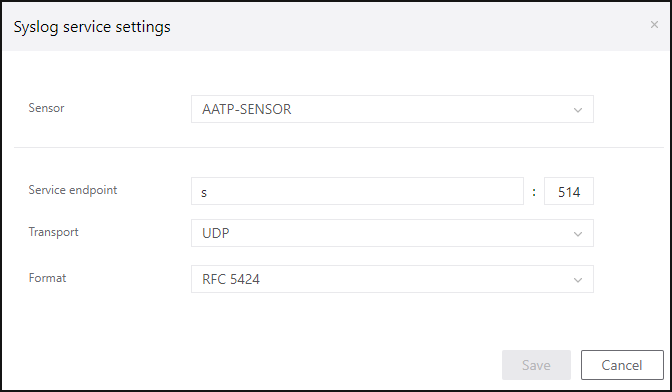
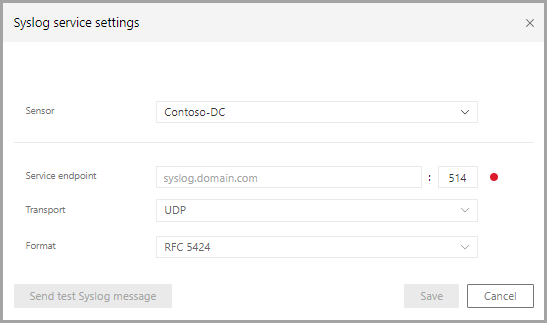
2.86 Release candidate

diff --git a/ATPDocs/cef-format-sa.md b/ATPDocs/cef-format-sa.md
@@ -84,6 +84,8 @@ The following fields and their values are forwarded to your SIEM:
 |[Suspected Golden Ticket usage (time anomaly)](atp-domain-dominance-alerts.md#suspected-golden-ticket-usage-time-anomaly-external-id-2022)|Kerberos Golden Ticket - time anomaly|2022|High|Privilege Escalation,<br> Lateral movement,<br>Persistence|
 |[Suspected identity theft (pass-the-hash)](atp-lateral-movement-alerts.md#suspected-identity-theft-pass-the-hash-external-id-2017)|Identity theft using Pass-the-Hash attack|2017|High|Lateral movement|
 |[Suspected identity theft (pass-the-ticket)](atp-lateral-movement-alerts.md#suspected-identity-theft-pass-the-ticket-external-id-2018)|Identity theft using Pass-the-Ticket attack|2018|High or Medium|Lateral movement|
+|[Suspected NTLM authentication tampering - preview](atp-lateral-movement-alerts.md#suspected-ntlm-authentication-tampering-external-id-2039---preview)|NA|2039|Medium|Lateral movement|
+|[Suspected NTLM relay attack - preview](atp-lateral-movement-alerts.md#suspected-ntlm-relay-attack-exchange-account-external-id-2037---preview)|NA|2037|Medium or Low if observed using signed NTLM v2 protocol|Privilege escalation, <br> Lateral movement|
 |[Suspected over-pass-the-hash attack (encryption downgrade)](atp-lateral-movement-alerts.md#suspected-overpass-the-hash-attack-encryption-downgrade-external-id-2008)|Encryption downgrade activity (potential overpass-the-hash attack)|2008|Medium|Lateral movement|
 |[Suspected overpass-the-hash attack (Kerberos)](atp-lateral-movement-alerts.md#suspected-overpass-the-hash-attack-kerberos-external-id-2002)|Unusual Kerberos protocol implementation (potential overpass-the-hash attack)|2002|Medium|Lateral movement|
 |[Suspected skeleton key attack (encryption downgrade)](atp-domain-dominance-alerts.md#suspected-skeleton-key-attack-encryption-downgrade-external-id-2010)|Encryption downgrade activity (potential skeleton key attack)|2010|Medium|Lateral movement,<br> Persistence|
@@ -141,6 +143,9 @@ Priorities:
 ### Suspected brute force attack (Kerberos, NTLM)
 10-29-2018	11:20:47	Auth.Warning	192.168.0.202	1 2018-10-29T09:20:44.478827+00:00 DC3 CEF 3908 BruteForceSecurityAlert ï»¿0|Microsoft|Azure ATP|2.52.5704.46184|BruteForceSecurityAlert|Suspicious authentication failures|5|start=2018-10-29T09:19:44.9512286Z app=Kerberos shost=CLIENT1 msg=Suspicious authentication failures indicating a potential brute-force attack were detected from CLIENT1. externalId=2023 cs1Label=url cs1=https\://contoso-corp.atp.azure.com/securityAlert/85042c8e-27fa-49b3-8667-dabc1aa31580 cs2Label=trigger cs2=new
 
+### Suspected DCSync attack (replication of directory services)
+02-21-2018	16:20:06	Auth.Warning	192.168.0.220	1 2018-02-21T14:19:54.254930+00:00 CENTER CEF 6076 MaliciousServiceCreationSecurity ï»¿0|Microsoft|Azure ATP|2.22.4228.22540|MaliciousServiceCreationSecurityAlert|Suspicious service creation|5|start=2018-02-21T14:19:41.7897808Z app=ServiceInstalledEvent shost=CLIENT1 msg=user1 created MaliciousService in order to execute potentially malicious commands on CLIENT1. externalId=2026 cs1Label=url cs1=https\://contoso-corp.atp.azure.com/securityAlert/179229b6-b791-4895-b5aa-fdf3747a325c cs2Label=trigger cs2=update
+
 ### Suspected Golden Ticket usage (encryption downgrade)
 10-29-2018	11:25:07	Auth.Warning	192.168.0.202	1 2018-10-29T09:25:01.007701+00:00 DC3 CEF 3908 GoldenTicketEncryptionDowngradeS ï»¿0|Microsoft|Azure ATP|2.52.5704.46184|GoldenTicketEncryptionDowngradeSecurityAlert|Encryption downgrade activity (potential golden ticket attack)|5|start=2018-10-29T09:37:49.0849130Z app=Kerberos msg=W10-000007-Lap used a weaker encryption method (RC4),Â in the Kerberos service request (TGS_REQ),Â from W10-000007-Lap, to access host/domain1.test.local. externalId=2009 cs1Label=url cs1=https\://contoso-corp.atp.azure.com/securityAlert/f01f8403-88b2-437e-b4ad-d72485fe05ac cs2Label=trigger cs2=new
 
@@ -162,14 +167,14 @@ Priorities:
 ### Suspected identity theft (Pass-the-Ticket) 
 02-21-2018	17:04:47	Auth.Error	192.168.0.220	1 2018-02-21T15:04:33.537583+00:00 CENTER CEF 6076 PassTheTicketSecurityAlert ï»¿0|Microsoft|Azure ATP|2.22.4228.22540|PassTheTicketSecurityAlert|Identity theft using Pass-the-Ticket attack|10|start=2018-02-21T15:02:22.2577465Z app=Kerberos suser=Eugene Jenkins msg=Eugene Jenkins (Software Engineer)'s Kerberos tickets were stolen from Admin-PC to Victim-PC and used to access krbtgt/DOMAIN1.TEST.LOCAL. externalId=2018 cs1Label=url cs1=https\://contoso-corp.atp.azure.com/securityAlert/511f1487-2915-477d-be2e-04cfba702ccd cs2Label=trigger cs2=new
 
+### Suspected NTLM authentication tampering (Preview)
+07-17-2019  18:18:44    Auth.Warning   192.168.0.77       1 2019-07-09T15:18:30.967118+00:00 CENTER CEF 7144 AbnormalNtlmSigningSecurityAlert ï»¿0|Microsoft|Azure ATP|2.86.0.0|AbnormalNtlmSigningSecurityAlert|[PREVIEW] Suspected NTLM authentication tampering|5|start=2019-07-09T15:14:57.5280720Z app=Ntlm shost=CLIENT1 msg=2 accounts on CLIENT1 is suspiciously trying to authenticate against 2 computers over NTLM. externalId=2039 cs1Label=url cs1=https\://contoso-corp.atp.azure.com:13000/securityAlert/d4ce6252-2c0f-47f6-a534-47ee8ad983be cs2Label=trigger cs2=new
+
 ### Suspected Over-Pass-the-Hash attack (encryption downgrade) 
 02-21-2018	16:21:07	Auth.Warning	192.168.0.220	1 2018-02-21T14:20:54.145833+00:00 CENTER CEF 6076 EncryptionDowngradeSecurityAlert ï»¿0|Microsoft|Azure ATP|2.22.4228.22540|EncryptionDowngradeSecurityAlert|Encryption downgrade activity|5|start=2018-02-21T14:19:41.8737870Z app=Kerberos msg= The encryption method of the Encrypted_Timestamp field of AS_REQ message from CLIENT1 has been downgraded based on previously learned behavior. This may be a result of a credential theft using Overpass-the-Hash from CLIENT1. externalId=2008 cs1Label=url cs1=https\://contoso-corp.atp.azure.com/securityAlert/6354b9ed-6a39-4f5b-b10e-f51bbee879d2 cs2Label=trigger cs2=update
 
 ### Suspected Skeleton Key attack (encryption downgrade) 
 02-21-2018	16:21:07	Auth.Warning	192.168.0.220	1 2018-02-21T14:20:54.145833+00:00 CENTER CEF 6076 EncryptionDowngradeSecurityAlert ï»¿0|Microsoft|Azure ATP|2.22.4228.22540|EncryptionDowngradeSecurityAlert|Encryption downgrade activity|5|start=2018-02-21T14:19:41.8737870Z app=Kerberos msg=The encryption method of the ETYPE_INFO2 field of KRB_ERR message from CLIENT1 has been downgraded based on previously learned behavior. This may be a result of a Skeleton Key on DC1. externalId=2010 cs1Label=url cs1=https\://contoso-corp.atp.azure.com/securityAlert/6354b9ed-6a39-4f5b-b10e-f51bbee879d2 cs2Label=trigger cs2=new
-
-### Suspected DCSync attack (replication of directory services)
-02-21-2018	16:20:06	Auth.Warning	192.168.0.220	1 2018-02-21T14:19:54.254930+00:00 CENTER CEF 6076 MaliciousServiceCreationSecurity ï»¿0|Microsoft|Azure ATP|2.22.4228.22540|MaliciousServiceCreationSecurityAlert|Suspicious service creation|5|start=2018-02-21T14:19:41.7897808Z app=ServiceInstalledEvent shost=CLIENT1 msg=user1 created MaliciousService in order to execute potentially malicious commands on CLIENT1. externalId=2026 cs1Label=url cs1=https\://contoso-corp.atp.azure.com/securityAlert/179229b6-b791-4895-b5aa-fdf3747a325c cs2Label=trigger cs2=update
 
 ### Suspicious authentication failures
 02-21-2018	16:19:20	Auth.Warning	192.168.0.220	1 2018-02-21T14:19:15.397995+00:00 CENTER CEF 6076 BruteForceSecurityAlert ï»¿0|Microsoft|Azure ATP|2.22.4228.22540|BruteForceSecurityAlert|Suspicious authentication failures|5|start=2018-02-21T14:19:03.3831122Z app=Kerberos shost=CLIENT1 msg=Suspicious authentication failures indicating a potential brute-force attack were detected from CLIENT1. externalId=2023 cs1Label=url cs1=https\://contoso-corp.atp.azure.com/securityAlert/fea88fc7-4110-454d-816d-349032474fd6 cs2Label=trigger cs2=new

diff --git a/ATPDocs/install-atp-step5.md b/ATPDocs/install-atp-step5.md
@@ -5,7 +5,7 @@ title: Configure Azure ATP sensor settings quickstart | Microsoft Docs
 description: Step five of installing Azure ATP helps you configure settings for your Azure ATP standalone sensor.
 author: mlottner
 ms.author: mlottner
-ms.date: 03/03/2018
+ms.date: 07/17/2019
 ms.topic: quickstart
 ms.collection: M365-security-compliance
 ms.service: azure-advanced-threat-protection
@@ -38,12 +38,12 @@ After the Azure ATP sensor is installed, do the following to configure Azure ATP
 
 1. Click **Launch** to open your browser and sign in to the Azure ATP portal.
 
-2.  In the Azure ATP portal, go to **Configuration** and, under the **System** section, select **Sensors**.
+1.  In the Azure ATP portal, go to **Configuration** and, under the **System** section, select **Sensors**.
    
     ![Configure sensor settings image](media/atp-sensor-config.png)
 
 
-3. Click on the sensor you want to configure and enter the following information:
+1. Click on the sensor you want to configure and enter the following information:
 
    ![Configure sensor settings image](media/atp-sensor-config-2.png)
 
@@ -59,17 +59,8 @@ After the Azure ATP sensor is installed, do the following to configure Azure ATP
     - For Azure ATP sensors, all network adapters that are used for communication with other computers in your organization.
     - For Azure ATP standalone sensor on a dedicated server, select the network adapters that are configured as the destination mirror port. These network adapters receive the mirrored domain controller traffic.
 
-  - **Domain synchronizer candidate**: 
-    
-    - The domain synchronizer is responsible for synchronization between Azure ATP and your Active Directory domain. Depending on the size of the domain, the initial synchronization may take time and is resource-intensive. Azure ATP recommends setting at least one domain controller as the domain synchronizer candidate per domain. Failure to select at least one domain controller as the domain synchronizer candidate means Azure ATP will only passively scan your network and may not be able to collect all Active Directory changes and entity details. At least one designated **domain synchronizer candidate** per domain ensures Azure ATP is actively scanning your network at all times and able to collect all Active Directory changes and entity values.
-  
-    - By default, Azure ATP sensors aren't domain synchronizer candidates, while Azure ATP standalone sensors are. To manually set an Azure ATP sensor as a domain synchronizer candidate, switch the **Domain synchronizer candidate** toggle option to **ON** in the configuration screen.
-        
-    - It's recommended that you disable any remote site Azure ATP sensor(s) from being domain synchronizer candidates.
-   
-    - Don't set read-only domain controllers as domain synchronizer candidates. For more information about Azure ATP domain synchronization, see [Azure ATP architecture](atp-architecture.md#azure-atp-sensor-features).
-  
-3. Click **Save**.
+ 
+1. Click **Save**.
 
 
 ## Validate installations
@@ -77,23 +68,23 @@ To validate that the Azure ATP sensor has been successfully deployed, check the 
 
 1. Check that the service named **Azure Advanced Threat Protection sensor** is running. After you save the Azure ATP sensor settings, it might take a few seconds for the service to start.
 
-2. If the service doesn't start, review the “Microsoft.Tri.sensor-Errors.log” file located in the following default folder, “%programfiles%\Azure Advanced Threat Protection sensor\Version X\Logs”.
+1. If the service doesn't start, review the “Microsoft.Tri.sensor-Errors.log” file located in the following default folder, “%programfiles%\Azure Advanced Threat Protection sensor\Version X\Logs”.
  
    >[!NOTE]
    > The version of Azure ATP updates frequently, to check the latest version, in the Azure ATP portal, go to **Configuration** and then **About**. 
 
-3. Go to your Azure ATP instance URL. In the Azure ATP portal, search for something in the search bar, such as a user or group on your domain.
+1. Go to your Azure ATP instance URL. In the Azure ATP portal, search for something in the search bar, such as a user or group on your domain.
 
-4. Verify ATP connectivity on any domain device using the following steps:
+1. Verify ATP connectivity on any domain device using the following steps:
     1. Open a command prompt
-    2. Type ```nslookup```
-    3. Type **server** then the FQDN or IP address of the domain controller where the ATP sensor is installed. For example,
+    1. Type ```nslookup```
+    1. Type **server** then the FQDN or IP address of the domain controller where the ATP sensor is installed. For example,
     ```server contosodc.contoso.azure```
         - Make sure to replace contosodc.contoso.azure and contoso.azure with the FQDN of your Azure ATP sensor and domain name respectively.
-    4. Type ```ls -d contoso.azure```
-    5. Repeat steps 3 and 4 for each sensor you wish to test.  
-    6. From the Azure ATP console, open the entity profile for the computer you ran the connectivity test from. 
-    7. Check the related logical activity and confirm connectivity. 
+    1. Type ```ls -d contoso.azure```
+    1. Repeat steps 3 and 4 for each sensor you wish to test.  
+    1. From the Azure ATP console, open the entity profile for the computer you ran the connectivity test from. 
+    1. Check the related logical activity and confirm connectivity. 
 
     > [!NOTE] 
     >If the domain controller you wish to test is your first deployed sensor, wait at least 15 minutes to allow the database backend to finish initial deployment of the necessary microservices before you attempt to verify the related logical activity for that domain controller.

diff --git a/ATPDocs/suspicious-activity-guide.md b/ATPDocs/suspicious-activity-guide.md
@@ -7,7 +7,7 @@ keywords:
 author: mlottner
 ms.author: mlottner
 manager: rkarlin
-ms.date: 05/27/2019
+ms.date: 07/17/2019
 ms.topic: conceptual
 ms.collection: M365-security-compliance
 ms.service: azure-advanced-threat-protection
@@ -28,7 +28,7 @@ ms.suite: ems
 
 # Azure ATP Security Alerts
 
-Azure ATP security alerts explain the suspicious activities detected by Azure ATP sensors on your network, and the actors and computers involved in each threat.   Alert evidence lists contain direct links to the involved users and computers, to help make your investigations easy and direct.
+Azure ATP security alerts explain the suspicious activities detected by Azure ATP sensors on your network, and the actors and computers involved in each threat. Alert evidence lists contain direct links to the involved users and computers, to help make your investigations easy and direct.
 
 Azure ATP security alerts are divided into the following categories or phases, like the phases seen in a typical cyber-attack kill chain. Learn more about each phase, the alerts designed to detect each attack, and how to use the alerts to help protect your network using the following links:
 
@@ -69,11 +69,12 @@ In version 2.56, all existing Azure ATP security alerts were renamed with easier
 |[Suspected Golden Ticket usage (time anomaly)](atp-domain-dominance-alerts.md#suspected-golden-ticket-usage-time-anomaly-external-id-2022)|Kerberos Golden Ticket - time anomaly|2022|High|Privilege Escalation,<br> Lateral movement,<br>Persistence|
 |[Suspected identity theft (pass-the-hash)](atp-lateral-movement-alerts.md#suspected-identity-theft-pass-the-hash-external-id-2017)|Identity theft using Pass-the-Hash attack|2017|High|Lateral movement|
 |[Suspected identity theft (pass-the-ticket)](atp-lateral-movement-alerts.md#suspected-identity-theft-pass-the-ticket-external-id-2018)|Identity theft using Pass-the-Ticket attack|2018|High or Medium|Lateral movement|
+|[Suspected NTLM authentication tampering - preview](atp-lateral-movement-alerts.md#suspected-ntlm-authentication-tampering-external-id-2039---preview)|NA|2039|Medium|Lateral movement|
+|[Suspected NTLM relay attack - preview](atp-lateral-movement-alerts.md#suspected-ntlm-relay-attack-exchange-account-external-id-2037---preview)|NA|2037|Medium or Low if observed using signed NTLM v2 protocol|Privilege escalation, <br> Lateral movement|
 |[Suspected over-pass-the-hash attack (encryption downgrade)](atp-lateral-movement-alerts.md#suspected-overpass-the-hash-attack-encryption-downgrade-external-id-2008)|Encryption downgrade activity (potential overpass-the-hash attack)|2008|Medium|Lateral movement|
 |[Suspected overpass-the-hash attack (Kerberos)](atp-lateral-movement-alerts.md#suspected-overpass-the-hash-attack-kerberos-external-id-2002)|Unusual Kerberos protocol implementation (potential overpass-the-hash attack)|2002|Medium|Lateral movement|
 |[Suspected skeleton key attack (encryption downgrade)](atp-domain-dominance-alerts.md#suspected-skeleton-key-attack-encryption-downgrade-external-id-2010)|Encryption downgrade activity (potential skeleton key attack)|2010|Medium|Lateral movement,<br> Persistence|
 |[Suspected use of Metasploit hacking framework](atp-compromised-credentials-alerts.md#suspected-use-of-metasploit-hacking-framework-external-id-2034)|Unusual protocol implementation (potential use of Metasploit hacking tools)|2034|Medium|Lateral movement|
-|[Suspected NTLM relay attack (Exchange account) - preview](atp-lateral-movement-alerts.md#suspected-ntlm-relay-attack-exchange-account-external-id-2037---preview)|NA|2037|Medium or Low if observed using signed NTLM v2 protocol|Privilege escalation, <br> Lateral movement|
 |[Suspected WannaCry ransomware attack](atp-compromised-credentials-alerts.md#suspected-wannacry-ransomware-attack-external-id-2035)|Unusual protocol implementation (potential WannaCry ransomware attack)|2035|Medium|Lateral movement|
 |[Suspicious communication over DNS](atp-exfiltration-alerts.md#suspicious-communication-over-dns-external-id-2031)|Suspicious communication over DNS|2031|Medium|Exfiltration|
 |[Suspicious additions to sensitive groups](atp-domain-dominance-alerts.md#suspicious-additions-to-sensitive-groups-external-id-2024)|Suspicious additions to sensitive groups|2024|Medium|Credential access,<br>Persistence|

diff --git a/ATPDocs/setting-syslog.md b/ATPDocs/setting-syslog.md
@@ -7,7 +7,7 @@ keywords:
 author: mlottner
 ms.author: mlottner
 manager: rkarlin
-ms.date: 12/02/2018
+ms.date: 07/17/2019
 ms.topic: conceptual
 ms.collection: M365-security-compliance
 ms.service: azure-advanced-threat-protection
@@ -29,7 +29,14 @@ ms.suite: ems
 
 # Integrate with Syslog
 
-Azure ATP can notify you when it detects suspicious activities and issues security alerts as well as health alerts by sending the notification to your Syslog server. If you enable Syslog notifications, you can set the following:
+Azure ATP can notify you when it detects suspicious activities and issue security alerts as well as health alerts by sending the notification to your Syslog server. If you enable Syslog notifications, you can set the following:
+
+   |Field|Description|
+   |---------|---------------|
+   |sensor|Select a designated sensor to be responsible for aggregating all the Syslog events and forwarding them to your SIEM server.|
+   |Service endpoint|FQDN of the Syslog server and optionally change the port number (default 514)|
+   |Transport|Can be UDP, TCP, or TLS (Secured Syslog)|
+   |Format|This is the format that Azure ATP uses to send events to the SIEM server - either RFC 5424 or RFC 3164.|
 
 1. Before configuring Syslog notifications, work with your SIEM admin to find out the following information:
 
@@ -41,26 +48,24 @@ Azure ATP can notify you when it detects suspicious activities and issues securi
 
    -   Format in which to send the data RFC 3164 or 5424
 
-2. Enter the instance URL.
+1. Open the Azure ATP portal. 
+2. Click **Settings**.
+3. From the **Notifications and Reports** sub menu, select **Notifications**. 
+1. From the **Syslog Service** option, click **Configure**.
+1. Select the **Sensor**. 
+1. Enter the **Service endpoint** URL.
+1. Select the **Transport** protocol (TCP or UDP). 
+1. Select the format (RFC 3164 or RFC 5424). 
+1. Select **Send text Syslog message** and then verify the message is received in your Syslog infrastructure solution. 
+1. Click **Save**. 
 
-3. Enter your Azure Active Directory user name and password and click **Log in**.
+To review or modify your Syslog settings.  
 
-4. Select the settings option on the toolbar and select **Configuration**.
-
-   ![Azure ATP configuration settings icon](media/ATP-config-menu.png)
-
-5. Click **Notifications**, and then, under **Syslog notifications** click **Configure** and enter the following information:
-
-   |Field|Description|
-   |---------|---------------|
-   |sensor|Select a designated sensor to be responsible for aggregating all the Syslog events and forwarding them to your SIEM server.|
-   |Service endpoint|FQDN of the Syslog server and optionally change the port number (default 514)|
-   |Transport|Can be UDP, TCP, or TLS (Secured Syslog)|
-   |Format|This is the format that Azure ATP uses to send events to the SIEM server - either RFC 5424 or RFC 3164.|
+3. Click **Notifications**, and then, under **Syslog notifications** click **Configure** and enter the following information:
 
    ![Azure ATP Syslog server settings image](media/atp-syslog.png)
 
-6. You can select which events to send to your Syslog server. Under **Syslog notifications**, specify which notifications should be sent to your Syslog server - new security alerts, updated security alerts, and new health issues.
+4. You can select which events to send to your Syslog server. Under **Syslog notifications**, specify which notifications should be sent to your Syslog server - new security alerts, updated security alerts, and new health issues.
 
 > [!NOTE]
 > If you plan to create automation or scripts for Azure ATP SIEM logs, we recommend using the **externalId** field to identify the alert type instead of using the alert name for this purpose. Alert names may occasionally be modified, while the **externalId** of each alert is permanent. For more information, see [Azure ATP SIEM log reference](cef-format-sa.md). 

diff --git a/ATPDocs/atp-lateral-movement-alerts.md b/ATPDocs/atp-lateral-movement-alerts.md
@@ -7,7 +7,7 @@ keywords:
 author: mlottner
 ms.author: mlottner
 manager: rkarlin
-ms.date: 03/18/2019
+ms.date: 07/17/2019
 ms.topic: tutorial
 ms.collection: M365-security-compliance
 ms.service: azure-advanced-threat-protection
@@ -44,6 +44,7 @@ The following security alerts help you identify and remediate **Lateral Movement
 > * Remote code execution over DNS (external ID 2036)
 > * Suspected identity theft (pass-the-hash) (external ID 2017)
 > * Suspected identity theft (pass-the-ticket) (external ID 2018)
+> * Suspected NTLM authentication tampering (external ID 2039) - preview
 > * Suspected NTLM relay attack (Exchange account)  (external ID 2037) - preview
 > * Suspected overpass-the-hash attack (encryption downgrade) (external ID 2008)
 > * Suspected overpass-the-hash attack (Kerberos) (external ID 2002)
@@ -153,6 +154,34 @@ There are custom applications that forward tickets on behalf of users. These app
 3. Find the tool that performed the attack and remove it.
 4. Look for users logged on around the same time as the activity, as they may also be compromised. Reset their passwords and enable MFA.
 5. If you have Windows Defender ATP installed – use **klist.exe purge** to delete all the tickets of the specified logon session and prevent future usage of the tickets.
+
+## Suspected NTLM authentication tampering (external ID 2039) - preview
+
+In June 2019, Microsoft published [Security Vulnerability CVE-2019-1040](https://portal.msrc.microsoft.com/security-guidance/advisory/CVE-2019-1040), announcing discovery of a new tampering vulnerability in Microsoft Windows, when a “man-in-the-middle” attack is able to successfully bypass NTLM MIC (Message Integrity Check) protection.
+
+Malicious actors that successfully exploit this vulnerability have the ability to downgrade NTLM security features, and may successfully create authenticated sessions on behalf of other accounts. Unpatched Windows Servers are at risk from this vulnerability.
+ 
+In this detection, an Azure ATP security alert is triggered when NTLM authentication requests suspected of exploiting security vulnerability identified in [CVE-2019-1040](https://portal.msrc.microsoft.com/security-guidance/advisory/CVE-2019-1040) are made against a domain controller in the network.
+
+**TP, B-TP, or FP?**
+
+1.	Are the involved computers, including domain controllers, up-to-date and patched against [CVE-2019-1040](https://portal.msrc.microsoft.com/security-guidance/advisory/CVE-2019-1040)?
+o	If the computers are up-to-date and patched, we expect the authentication to fail. If the authentication ailed, **Close** the security alert as a failed attempt.
+ 
+**Understand the scope of the breach**
+1.	Investigate the [source computers](investigate-a-computer.md).
+2.	Investigate the [source account](investigate-a-user.md).
+
+**Suggested remediation and steps for prevention**
+
+**Remediation**
+1.	Contain the source computers
+2.	Find the tool that performed the attack and remove it.
+3.	Look for users logged on around the same time as the activity occurred, as they may also be compromised. Reset their passwords and enable MFA.
+4.	Force the use of sealed NTLMv2 in the domain, using the **Network security: LAN Manager authentication level** group policy. For more information, see [LAN Manager authentication level instructions](https://docs.microsoft.com/windows/security/threat-protection/security-policy-settings/network-security-lan-manager-authentication-level) for setting the group policy for domain controllers.
+ 
+*Prevention*
+•	Make sure all devices in the environment are up-to-date, and patched against [CVE-2019-1040](https://portal.msrc.microsoft.com/security-guidance/advisory/CVE-2019-1040).
 
 ## Suspected NTLM relay attack (Exchange account) (external ID 2037) - preview
 

diff --git a/ATPDocs/atp-whats-new.md b/ATPDocs/atp-whats-new.md
@@ -28,6 +28,23 @@ ms.suite: ems
 
 # What's new in Azure ATP
 
+## Azure ATP release 2.86 
+
+Released July 14, 2019
+
+- **New security alert: Suspected NTLM authentication tampering (external ID 2039) – (preview)**<br>
+Azure ATP’s new [Suspected NTLM authentication tampering](atp-lateral-movement-alerts.md#suspected-ntlm-authentication-tampering-external-id-2039---preview) security alert is now in public preview. <br> In this detection, an Azure ATP security alert is triggered when use of "man-in-the-middle" attack is suspected of successfully bypassing NTLM Message Integrity Check (MIC), a security vulnerability detailed in Microsoft [CVE-2019-040](https://portal.msrc.microsoft.com/en-US/security-guidance/advisory/CVE-2019-1040). These types of attacks attempt to downgrade NTLM security features and successfully authenticate, with the ultimate goal of making successful lateral movements. 
+
+- **Feature enhancement: TcP FingerPrint**<br> Until now, Azure ATP provided entity device operating system (OS) information based on the available attribute in Active Directory. Previously, if OS information was unavailable in Active Directory, it was also unavailable on device pages. Starting from this version, Azure ATP now also provides this information for devices for which Active Directory(AD) doesn't have the information, or that are not registered in AD, by using TCP fingerprints. 
+ 
+    Azure ATP now evaluates and determines the device OS based on network traffic. For devices that don't have an OS attribute in AD, or are not registered, if the OS was evaluated by TCP fingerprint, this information is now provided on the device page under the device name. This additional data helps identify unregistered and non-Windows devices, while aiding in your investigation process. For learn more about investigating using Azure ATP, see [investigate a computer](investigate-a-computer.md).  
+
+- **New feature: Authenticated proxy -preview**<br> Azure ATP now supports authenticated proxy. Specify the proxy URL using the sensor command line and  specify Username/Password to use proxies that require authentication. For more information about authenticated proxy, see [Configure the proxy](https://docs.microsoft.com/azure-advanced-threat-protection/configure-proxy#configure-the-proxy).
+
+- **Feature enhancement: Automated domain synchronizer process**<br> The process of designating and tagging domain controllers as domain synchronizer candidates during setup and ongoing configuration is now fully automated. The toggle option to select a domain controller as a domain synchronizer candidate is removed. 
+
+- This version also includes improvements and bug fixes for internal sensor infrastructure.
+
 ## Azure ATP release 2.85
 
 Released July 7, 2019

diff --git a/ATPDocs/atp-architecture.md b/ATPDocs/atp-architecture.md
@@ -7,7 +7,7 @@ keywords:
 author: mlottner
 ms.author: mlottner
 manager: rkarlin
-ms.date: 1/27/2019
+ms.date: 07/17/2019
 ms.topic: article
 ms.collection: M365-security-compliance
 ms.service: azure-advanced-threat-protection
@@ -75,16 +75,12 @@ The Azure ATP sensor has the following core functionality:
 
 Azure ATP sensor reads events locally, without the need to purchase and maintain additional hardware or configurations. The Azure ATP sensor also supports Event Tracing for Windows (ETW) which provides the log information for multiple detections. ETW-based detections include Suspected DCShadow attacks attempted using domain controller replication requests and domain controller promotion.
 
-### Domain synchronizer candidate
+### Domain synchronizer process
 
-The domain synchronizer candidate is responsible for synchronizing all entities from a specific Active Directory domain proactively (similar to the mechanism used by the domain controllers themselves for replication). One sensor is chosen randomly, from the list of candidates, to serve as the domain synchronizer. 
+The domain synchronizer process is responsible for synchronizing all entities from a specific Active Directory domain proactively (similar to the mechanism used by the domain controllers themselves for replication). One sensor is automatically chosen at random from all of your eligible sensors to serve as the domain synchronizer. 
 
-If the synchronizer is offline for more than 30 minutes, another candidate is chosen instead. If there's no domain synchronizer available for a specific domain, Azure ATP proactively synchronizes entities and their changes, however Azure ATP retrieves new entities as they're detected in the monitored traffic.
+If the domain synchronizer is offline for more than 30 minutes, another sensor is automatically chosen instead. 
     
-If there's no domain synchronizer available, and you search for an entity that didn't have any traffic related to it, no search results are displayed.
-
-By default, Azure ATP sensors aren't synchronizer candidates. To manually set an Azure ATP sensor as a domain synchronizer candidate, follow the steps in the [Azure ATP installation workflow](install-atp-step5.md).
-
 ### Resource limitations
 
 The Azure ATP sensor includes a monitoring component that evaluates the available compute and memory capacity on the domain controller on which it's running. The monitoring process runs every 10 seconds and dynamically updates the CPU and memory utilization quota on the Azure ATP sensor process. The monitoring process makes sure the domain controller always has at least 15% of free compute and memory resources available.

diff --git a/ATPDocs/atp-nnr-policy.md b/ATPDocs/atp-nnr-policy.md
@@ -6,7 +6,7 @@ keywords:
 author: mlottner
 ms.author: mlottner
 manager: rkarlin
-ms.date: 06/17/2019
+ms.date: 07/17/2019
 ms.topic: conceptual
 ms.collection: M365-security-compliance
 ms.service: azure-advanced-threat-protection
@@ -40,11 +40,13 @@ To resolve IP addresses to computer names, Azure ATP sensors query the IP addres
 > [!NOTE]
 >No authentication is performed on any of the ports.
 
+Azure ATP evaluates and determines the device operating system based on network traffic. After retrieving the computer name, the Azure ATP sensor checks Active Directory and uses TCP fingerprints to see if there is a correlated computer object with the same computer name. Using TCP fingerprints helps identify unregistered and non-Windows devices, aiding in your investigation process. 
+When the Azure ATP sensor finds the correlation, the sensor associates the IP to the computer object. 
+
 In cases where no name is retrieved, an **unresolved computer profile by IP** is created with the IP and the relevant detected activity.
 
-After retrieving the computer name, the Azure ATP sensor checks in Active Directory to see if there is a correlated computer object with the same computer name. If the sensor finds the correlation, the sensor associates this IP to that computer object. In cases where no computer object with this name is found,  an **unresolved computer profile by name** is created with this name and the relevant detected activity. 
-
 ![Unresolved computer profile](media/unresolved-computer-profile.png)
+
 
 NNR data is crucial for detecting the following threats:
 

diff --git a/ATPDocs/monitoring-alerts.md b/ATPDocs/monitoring-alerts.md
@@ -7,7 +7,7 @@ keywords:
 author: mlottner
 ms.author: mlottner
 manager: rkarlin
-ms.date: 05/29/2019
+ms.date: 07/17/2019
 ms.topic: conceptual
 ms.collection: M365-security-compliance
 ms.service: azure-advanced-threat-protection
@@ -29,12 +29,6 @@ ms.suite: ems
 # Understanding Azure ATP sensor and standalone sensor monitoring alerts
 
 The Azure ATP Health Center lets you know when there's a problem with your Azure ATP instance, by raising a monitoring alert. This article describes all the monitoring alerts for each component, listing the cause and the steps needed to resolve the problem.
-
-## Domain synchronizer not assigned
-
-|Alert|Description|Resolution|Severity|
-|----|----|----|----|
-|No domain synchronizer is assigned to any Azure ATP sensor. This may happen if there is no Azure ATP sensor configured as domain synchronizer candidate.|When the domain is not synchronized, changes to entities might cause entity information in Azure ATP to become out of date or missing but does not affect any detection.|Make sure that at least one Azure ATP sensor is set as a [Domain synchronizer](install-atp-step5.md).|Low|
 
 ## All domain controllers are unreachable by a sensor
 

diff --git a/ATPDocs/atp-silent-installation.md b/ATPDocs/atp-silent-installation.md
@@ -7,7 +7,7 @@ keywords:
 author: mlottner
 ms.author: mlottner
 manager: rkarlin
-ms.date: 12/05/2018
+ms.date: 07/17/2019
 ms.topic: conceptual
 ms.collection: M365-security-compliance
 ms.service: azure-advanced-threat-protection
@@ -85,6 +85,20 @@ Use the following command to silently install the Azure ATP sensor:
 
[1 lines of base64/hex data omitted]
 
+## Proxy authentication
+
+Use the following commands to complete proxy authentication:
+
+**Syntax**:
+
+
+> [!div class="mx-tableFixed"]
+> 
+> |Name|Syntax|Mandatory for silent installation?|Description|
+> |-------------|----------|---------|---------|
+> |ProxyUrl|/quiet|Yes|Specifies the ProxyUrl and port number for the Azure ATP sensor.|
+> |ProxyUserName|/help|No|If your proxy service requires authentication, supply a user name in the DOMAIN\user format.|
+> |ProxyUserPassword|NetFrameworkCommandLineArguments="/q"|Yes|Specifies the password for proxy user name. *Credentials are encrypted and stored locally by the Azure ATP sensor.|
 
 ## Update the Azure ATP sensor
 
